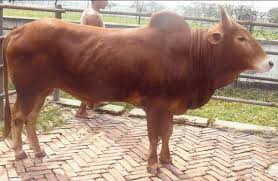
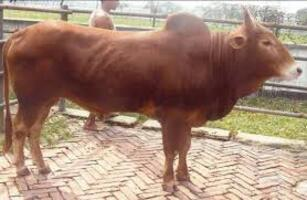
image resizeed

diff --git a/index.html b/index.html
@@ -41,17 +41,20 @@
 
     <!-- main topics starts here -->
     <main>
-        <section>
-          <div id="carouselExampleInterval" class="carousel slide" data-bs-ride="carousel">
-            <div class="carousel-inner ">
+        <section class="container row">
+          <div class="col-md-6">
+            Lorem ipsum dolor sit amet consectetur adipisicing elit. Aliquam tempora aspernatur porro inventore fugit fugiat laborum non repellat deleniti reprehenderit?
+          </div>
+          <div id="carouselExampleInterval" class="carousel slide col-md-6" data-bs-ride="carousel">
+            <div class="carousel-inner">
               <div class="carousel-item active" data-bs-interval="10000">
-                <img src="images/CowPic0 (0).jpg" class="d-block w-100" alt="...">
+                <img src="images/CowPic0 (0).jpg" class="d-block w-75 h-75" alt="...">
               </div>
               <div class="carousel-item" data-bs-interval="2000">
-                <img src="images/CowPic0 (1).png" class="d-block w-100" alt="...">
+                <img src="images/CowPic0 (8).png" class="d-block w-50 h-50" alt="...">
               </div>
               <div class="carousel-item">
-                <img src="images/CowPic0 (2).jpg" class="d-block w-100" alt="...">
+                <img src="images/CowPic0 (2).jpg" class="d-block w-50 h-50" alt="...">
               </div>
             </div>
             <button class="carousel-control-prev" type="button" data-bs-target="#carouselExampleInterval" data-bs-slide="prev">
